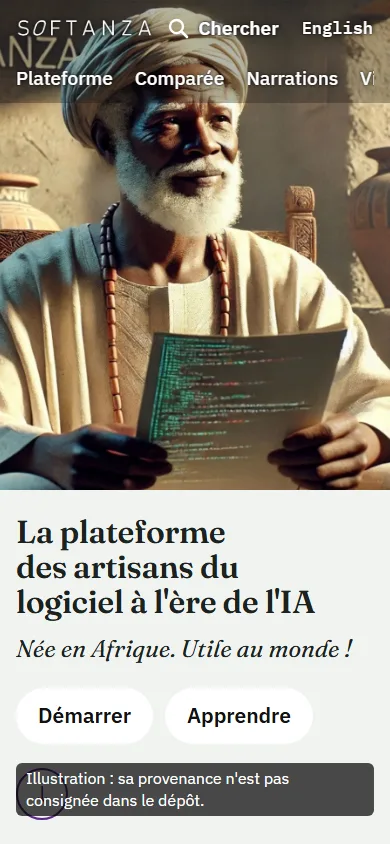
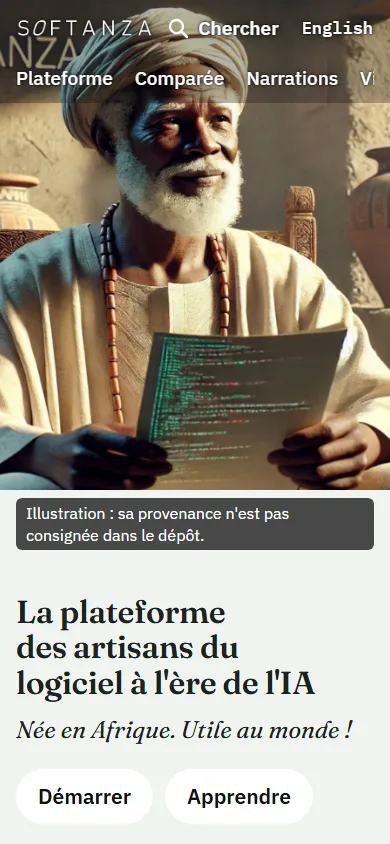
Home page on a phone: the provenance line no longer lies over the scroll arrow
Looking at the home page in the light theme, at laptop and phone width, found a
fault the audit cannot see: on a phone the line saying the picture's provenance
is not recorded covered the arrow that scrolls down. It now follows in the page's
flow. The menu over the photograph is read as readable by a model, which is not
a person's verdict, and the Zui page says so: it stays unperceived. The menu is
left as drawn.

Changed region(s): [[0.0308, 0.5853, 0.9846, 0.9858], [0.8923, 0.8318, 0.9231, 0.8626], [0.8923, 0.7393, 0.9231, 0.7701]]

diff --git a/fr/zui.html b/fr/zui.html
@@ -78,7 +78,7 @@
 <p>Ce qui reste :</p>
 <ul>
 <li><strong>Règle 115, le chemin se lit pareil à chaque étape : 16 constats, 8 par langue.</strong> Le chemin de la première page d'une section s'arrête à la section, et celui d'une autre page de la section va jusqu'à cette page ; l'audit veut un chemin identique sur les deux, seule la mise en évidence bougeant. Ici les niveaux sous la section sont dans la barre de section, une seconde ligne que l'audit ne lit pas, et le choix fait est de garder deux lignes plutôt que de les fondre en une. Le même constat se lève sur les pages plus profondes, dont le chemin descend jusqu'à la page.</li>
-<li><strong>Règle 105, contraste : 24 constats en thème clair, aucun en thème sombre, tous sur l'accueil,</strong> le menu posé sur la photographie. L'audit ne voit pas une image et a mesuré la couleur sous elle. La construction du site mesure ce menu contre les pixels les plus clairs de la photographie et le passe, et aucun verdict de personne sur le thème clair n'est enregistré : non perçu.</li>
+<li><strong>Règle 105, contraste : 24 constats en thème clair, aucun en thème sombre, tous sur l'accueil,</strong> le menu posé sur la photographie. L'audit ne voit pas une image et a mesuré la couleur sous elle. La construction du site mesure ce menu contre les pixels les plus clairs de la photographie et le passe. Un modèle a aussi regardé l'accueil en thème clair, en largeur de portable et de téléphone, et a lu le menu sans peine ; la lecture d'un modèle n'est pas le verdict d'une personne, donc aucun n'est enregistré et cela reste non perçu. Regarder a trouvé une faute que l'audit ne pouvait pas voir : sur un téléphone, la ligne disant que la provenance de l'image n'est pas consignée recouvrait la flèche qui fait défiler. Elle suit désormais dans le flux de la page. Le menu est laissé comme l'auteur l'a dessiné, du texte avec son propre bord sombre et sans barre, ce qui est une exception voulue à la règle 110 sur l'accueil seulement.</li>
 </ul>
 <p>Ce que cet audit ne voit pas : une image, un état qui demande la main (survol, focus, un menu ouvert), toute largeur autre que 1280 pixels, et toute page qu'on ne lui a pas donnée. Le chemin est balisé avec l'étiquette que prescrit la règle, le mot anglais Breadcrumb, y compris sur les pages françaises. Un modèle a lu les rapports et écrit ceci ; un rapport propre prouverait encore l'accord avec une règle, pas qu'une personne trouve la page juste.</p>
   </div>

diff --git a/en/zui.html b/en/zui.html
@@ -78,7 +78,7 @@
 <p>What remains:</p>
 <ul>
 <li><strong>Rule 115, the path reads the same at every step: 16 findings, 8 per language.</strong> The trail of a section's first page ends at the section, and the trail of another page of the section goes on to that page; the audit wants one identical path on both, with only the highlight moving. Here the levels below the section sit in the section bar, a second row the audit does not read, and the choice made is to keep two rows rather than fold them into one. The same finding is raised on the deeper pages, whose trail goes down to the page.</li>
-<li><strong>Rule 105, contrast: 24 findings in the light theme, none in the dark one, all on the home page,</strong> the menu laid over the photograph. The audit cannot see an image and measured the colour beneath it. The site's own build measures that menu against the photograph's brightest pixels and passes it, and no person's verdict on the light theme is recorded: unperceived.</li>
+<li><strong>Rule 105, contrast: 24 findings in the light theme, none in the dark one, all on the home page,</strong> the menu laid over the photograph. The audit cannot see an image and measured the colour beneath it. The site's own build measures that menu against the photograph's brightest pixels and passes it. A model also looked at the home page in the light theme, at laptop and phone width, and read the menu without difficulty; a model's reading is not a person's verdict, so none is recorded and this stays unperceived. Looking found one fault the audit could not: on a phone, the line saying the picture's provenance is not recorded lay over the arrow that scrolls down. It now follows in the page's flow. The menu is left as the author drew it, text with its own dark edge and no bar, which is a deliberate exception to Rule 110 on the home page only.</li>
 </ul>
 <p>What this audit cannot see: an image, a state that needs a hand (hover, focus, a menu opened), any width but 1280 pixels, and any page it was not given. The trail is marked with the label the rule prescribes, the English word Breadcrumb, on the French pages too. A model read the reports and wrote this; a clean report would still prove agreement with a rule, not that a person finds the page right.</p>
   </div>

diff --git a/assets/css/site.css b/assets/css/site.css
@@ -658,3 +658,5 @@ figure.gal figcaption p{margin:4px 0}
 
 /* Rules 105 and 107: a list of choices reads at the reading floor, not at the browser's own 13px */
 select,select option{font-size:1rem}
+/* on a phone the credit follows the arrow in the flow instead of lying over it */
+@media (max-width:760px){.hero-credit{position:static;display:block;width:fit-content;margin:8px var(--gutter) 20px;max-width:calc(100% - 2*var(--gutter))}}

diff --git a/content/fr/zui.md b/content/fr/zui.md
@@ -52,6 +52,6 @@ Ce que la réparation a changé, chaque point mesuré par les passes qui l'ont s
 Ce qui reste :
 
 - **Règle 115, le chemin se lit pareil à chaque étape : 16 constats, 8 par langue.** Le chemin de la première page d'une section s'arrête à la section, et celui d'une autre page de la section va jusqu'à cette page ; l'audit veut un chemin identique sur les deux, seule la mise en évidence bougeant. Ici les niveaux sous la section sont dans la barre de section, une seconde ligne que l'audit ne lit pas, et le choix fait est de garder deux lignes plutôt que de les fondre en une. Le même constat se lève sur les pages plus profondes, dont le chemin descend jusqu'à la page.
-- **Règle 105, contraste : 24 constats en thème clair, aucun en thème sombre, tous sur l'accueil,** le menu posé sur la photographie. L'audit ne voit pas une image et a mesuré la couleur sous elle. La construction du site mesure ce menu contre les pixels les plus clairs de la photographie et le passe, et aucun verdict de personne sur le thème clair n'est enregistré : non perçu.
+- **Règle 105, contraste : 24 constats en thème clair, aucun en thème sombre, tous sur l'accueil,** le menu posé sur la photographie. L'audit ne voit pas une image et a mesuré la couleur sous elle. La construction du site mesure ce menu contre les pixels les plus clairs de la photographie et le passe. Un modèle a aussi regardé l'accueil en thème clair, en largeur de portable et de téléphone, et a lu le menu sans peine ; la lecture d'un modèle n'est pas le verdict d'une personne, donc aucun n'est enregistré et cela reste non perçu. Regarder a trouvé une faute que l'audit ne pouvait pas voir : sur un téléphone, la ligne disant que la provenance de l'image n'est pas consignée recouvrait la flèche qui fait défiler. Elle suit désormais dans le flux de la page. Le menu est laissé comme l'auteur l'a dessiné, du texte avec son propre bord sombre et sans barre, ce qui est une exception voulue à la règle 110 sur l'accueil seulement.
 
 Ce que cet audit ne voit pas : une image, un état qui demande la main (survol, focus, un menu ouvert), toute largeur autre que 1280 pixels, et toute page qu'on ne lui a pas donnée. Le chemin est balisé avec l'étiquette que prescrit la règle, le mot anglais Breadcrumb, y compris sur les pages françaises. Un modèle a lu les rapports et écrit ceci ; un rapport propre prouverait encore l'accord avec une règle, pas qu'une personne trouve la page juste.

diff --git a/content/en/zui.md b/content/en/zui.md
@@ -52,6 +52,6 @@ What the repair changed, each measured by the runs after it:
 What remains:
 
 - **Rule 115, the path reads the same at every step: 16 findings, 8 per language.** The trail of a section's first page ends at the section, and the trail of another page of the section goes on to that page; the audit wants one identical path on both, with only the highlight moving. Here the levels below the section sit in the section bar, a second row the audit does not read, and the choice made is to keep two rows rather than fold them into one. The same finding is raised on the deeper pages, whose trail goes down to the page.
-- **Rule 105, contrast: 24 findings in the light theme, none in the dark one, all on the home page,** the menu laid over the photograph. The audit cannot see an image and measured the colour beneath it. The site's own build measures that menu against the photograph's brightest pixels and passes it, and no person's verdict on the light theme is recorded: unperceived.
+- **Rule 105, contrast: 24 findings in the light theme, none in the dark one, all on the home page,** the menu laid over the photograph. The audit cannot see an image and measured the colour beneath it. The site's own build measures that menu against the photograph's brightest pixels and passes it. A model also looked at the home page in the light theme, at laptop and phone width, and read the menu without difficulty; a model's reading is not a person's verdict, so none is recorded and this stays unperceived. Looking found one fault the audit could not: on a phone, the line saying the picture's provenance is not recorded lay over the arrow that scrolls down. It now follows in the page's flow. The menu is left as the author drew it, text with its own dark edge and no bar, which is a deliberate exception to Rule 110 on the home page only.
 
 What this audit cannot see: an image, a state that needs a hand (hover, focus, a menu opened), any width but 1280 pixels, and any page it was not given. The trail is marked with the label the rule prescribes, the English word Breadcrumb, on the French pages too. A model read the reports and wrote this; a clean report would still prove agreement with a rule, not that a person finds the page right.

diff --git a/JOURNAL.md b/JOURNAL.md
@@ -2033,3 +2033,32 @@ next:
 
 note:      the first-page title Audiences is still the heading of that page; only the navigation name changed
 ```
+
+```yaml
+by:        stzsite · claude-sonnet-5-5 · 2026-10-09 13:26
+
+subject:   the home menu in the light theme, looked at, and one fault found beside it
+
+why:       the audit could not measure the menu over the photograph, and the author asked for it to be looked at
+
+did:
+  - rendered the home page in the light theme at laptop, phone and projector width and read the menu, the wordmark and the language link over the photograph: readable, white with its own dark edge on a 30% band
+  - found a fault no instrument could: on a phone the line saying the picture's provenance is not recorded lay over the arrow that scrolls down; made it follow in the flow, above the headline, and looked again
+  - left the menu as the author drew it (text with a halo, no bar, a deliberate exception to Rule 110 on the home page only): a heavier band would make the instruments pass and change the look, which is the author's
+  - said on the Zui page what was looked at, who looked (a model), and that no person's verdict is recorded, so the menu stays unperceived
+  - checked: 0 failures on the example blocks, 0 dangling links in 4,298 files, search 16 of 16, the floor held on the Zui pages in both themes
+
+state:
+  home-menu-light:  read by a model without difficulty; no person's verdict recorded; unperceived
+  phone-credit:     overlap with the scroll arrow fixed
+  audit-105:        24 findings in light remain, the audit cannot see the photograph
+
+waiting:
+  - HOMEMENU-LIGHT: a person looks at the home page in the light theme and says so -> the author [routed on the Zui page]
+
+next:
+  - me:      commit and push
+  - author:  look at the home page in the light theme, laptop and phone, and tell me what you see
+
+note:      a decision on perception cannot be taken on someone's behalf; the fault found by looking was repaired, the verdict was not made
+```
